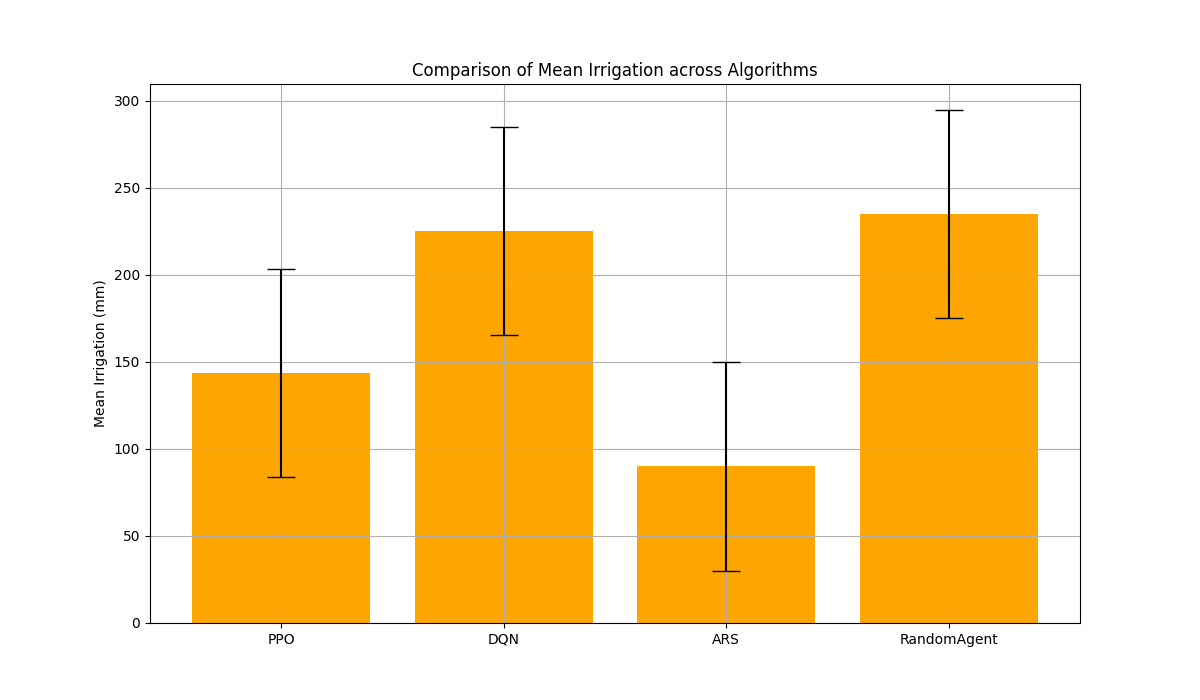
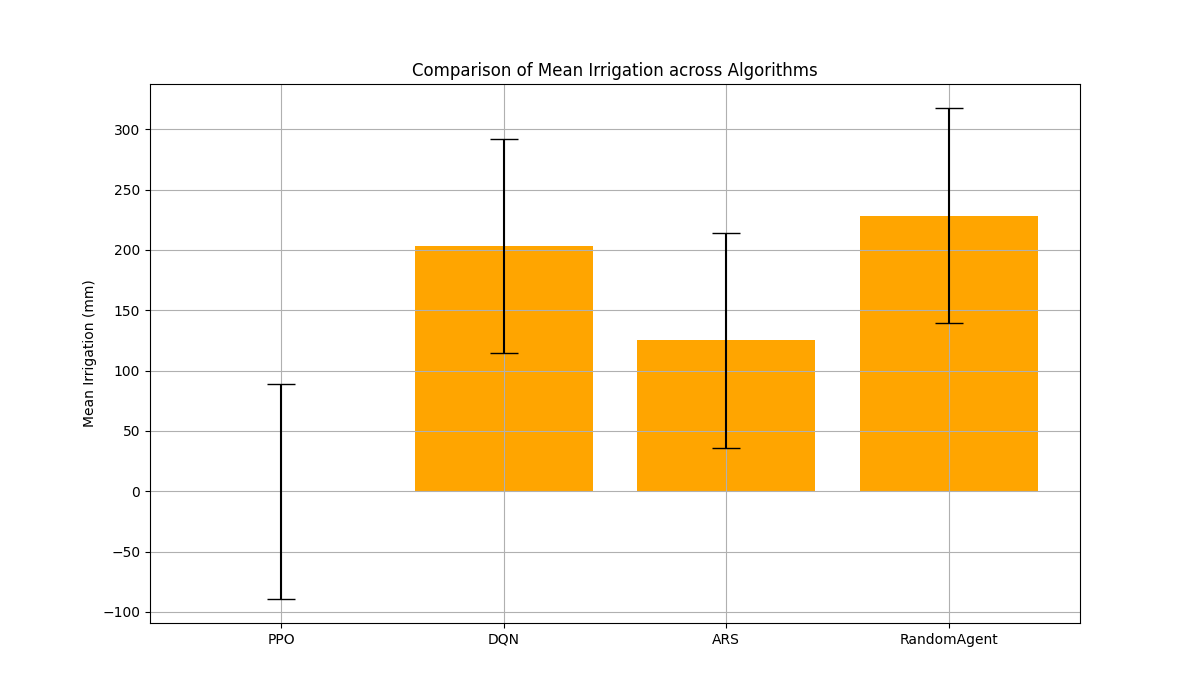
first irrigation reward

diff --git a/aquacroprice/envs/maize.py b/aquacroprice/envs/maize.py
@@ -169,16 +169,38 @@ class Maize(gym.Env):
         biomass = self.model._init_cond.biomass
         biomass_ns = self.model._init_cond.biomass_ns
         
-        # Calculate positive reward inversely proportional to biomass difference
+        # Calculate the biomass difference for this step
         biomass_diff = abs(biomass_ns - biomass)
-        reward = 1 / (1 + biomass_diff)  # Positive reward when biomass difference is small
+        
+        # Accumulate total biomass difference over the episode
+        if not hasattr(self, 'total_biomass_diff'):
+            self.total_biomass_diff = 0  # Initialize if not already present
+        self.total_biomass_diff += biomass_diff  # Accumulate the biomass difference
         
         # Penalize for irrigation depth applied during this step
         irrigation_penalty = depth * 0.2  # Penalty proportional to irrigation depth
-        reward -= irrigation_penalty  # Reduce reward for irrigation usage
+
+        # First irrigation reward logic
+        if depth > 0:
+            if not getattr(self, 'irrigated_once', False):
+                # Reward heavily for the first irrigation
+                first_irrigation_reward = 50.0  # Large reward for first irrigation
+                self.irrigated_once = True  # Mark that the agent has irrigated at least once
+                print("First irrigation: Large reward given!")
+            else:
+                # Penalize for any subsequent irrigation
+                first_irrigation_reward = -10.0  # Penalty for irrigating more than once
+                print("Subsequent irrigation: Penalty applied.")
+        else:
+            first_irrigation_reward = 0  # No special reward if no irrigation
+
+        # Accumulate total irrigation penalty over the episode
+        if not hasattr(self, 'total_irrigation_penalty'):
+            self.total_irrigation_penalty = 0  # Initialize if not already present
+        self.total_irrigation_penalty += irrigation_penalty  # Accumulate irrigation penalty
         
-        # Logging (optional)
-        # print(f"Biomass: {biomass}, Biomass NS: {biomass_ns}, Step Reward: {reward}, Irrigation Depth: {depth}, Irrigation Penalty: {irrigation_penalty}")
+        # Calculate the step reward based on biomass difference, irrigation penalty, and first irrigation reward
+        reward = (1 / (1 + biomass_diff)) - irrigation_penalty + first_irrigation_reward
         
         terminated = self.model._clock_struct.model_is_finished
         
@@ -190,22 +212,47 @@ class Maize(gym.Env):
             'total_irrigation': sum([item[1] for item in self.irrigation_schedule])  # Cumulative irrigation
         }
 
-        # If the season is finished, print the dry yield and total irrigation
+        # If the season is finished, apply the logic for no irrigation penalty only if there was no irrigation
         if terminated:
             # Get dry yield and total irrigation from the model
             dry_yield = self.model._outputs.final_stats['Dry yield (tonne/ha)'].mean()
             total_irrigation = self.model._outputs.final_stats['Seasonal irrigation (mm)'].mean()
             
+            # Apply no-irrigation penalty only if the agent never irrigated
+            if not getattr(self, 'irrigated_once', False):
+                no_irrigation_penalty = 50  # Strong penalty for no irrigation when needed
+                print(f"Penalty Applied: Agent did not irrigate during the episode.")
+            else:
+                no_irrigation_penalty = 0  # No penalty if at least one irrigation occurred
+            
+            # Calculate final cumulative biomass reward based on total biomass difference
+            final_biomass_diff_reward = 1 / (1 + self.total_biomass_diff)  # Biomass difference reward for the episode
+            
             # Print final statistics
             print(f"Dry Yield: {dry_yield}")
             print(f"Total Irrigation: {total_irrigation}")
-            print(f"Reward: {reward}")
+            print(f"Final Biomass Difference Reward: {final_biomass_diff_reward}")
+            print(f"Total Irrigation Penalty: {self.total_irrigation_penalty}")
+            print(f"No Irrigation Penalty: {no_irrigation_penalty}")
             
             # Add final stats to the info dictionary
             info['dry_yield'] = dry_yield
             info['total_irrigation'] = total_irrigation
 
+            # Reset cumulative values to 0 for the next episode
+            self.total_biomass_diff = 0
+            self.total_irrigation_penalty = 0
+            self.irrigated_once = False  # Reset irrigation flag for the next episode
+
+            # Apply the no-irrigation penalty to the total reward
+            reward -= no_irrigation_penalty
+
         return next_obs, reward, terminated, truncated, info
+
+
+
+
+
 
 
 
